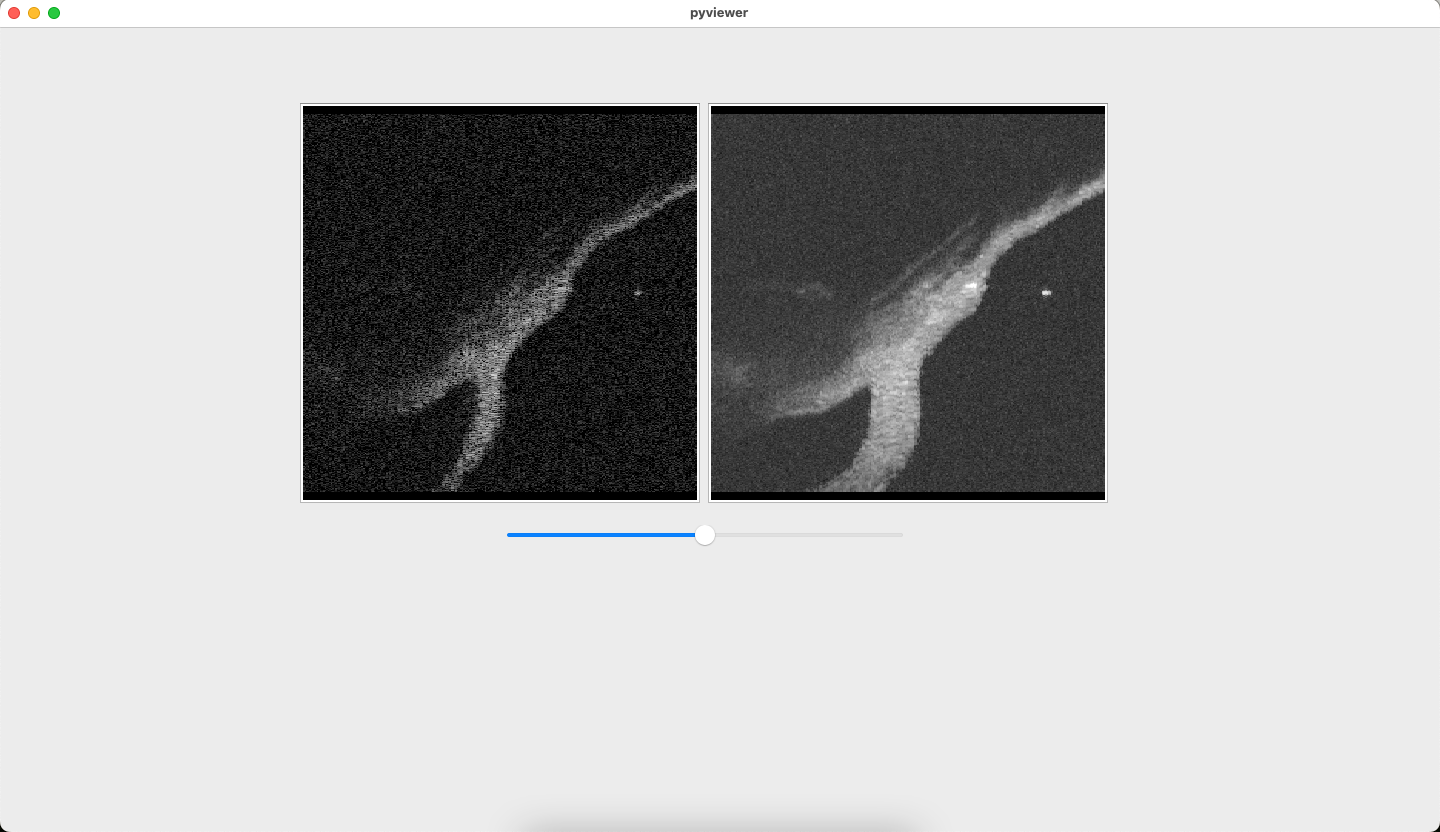
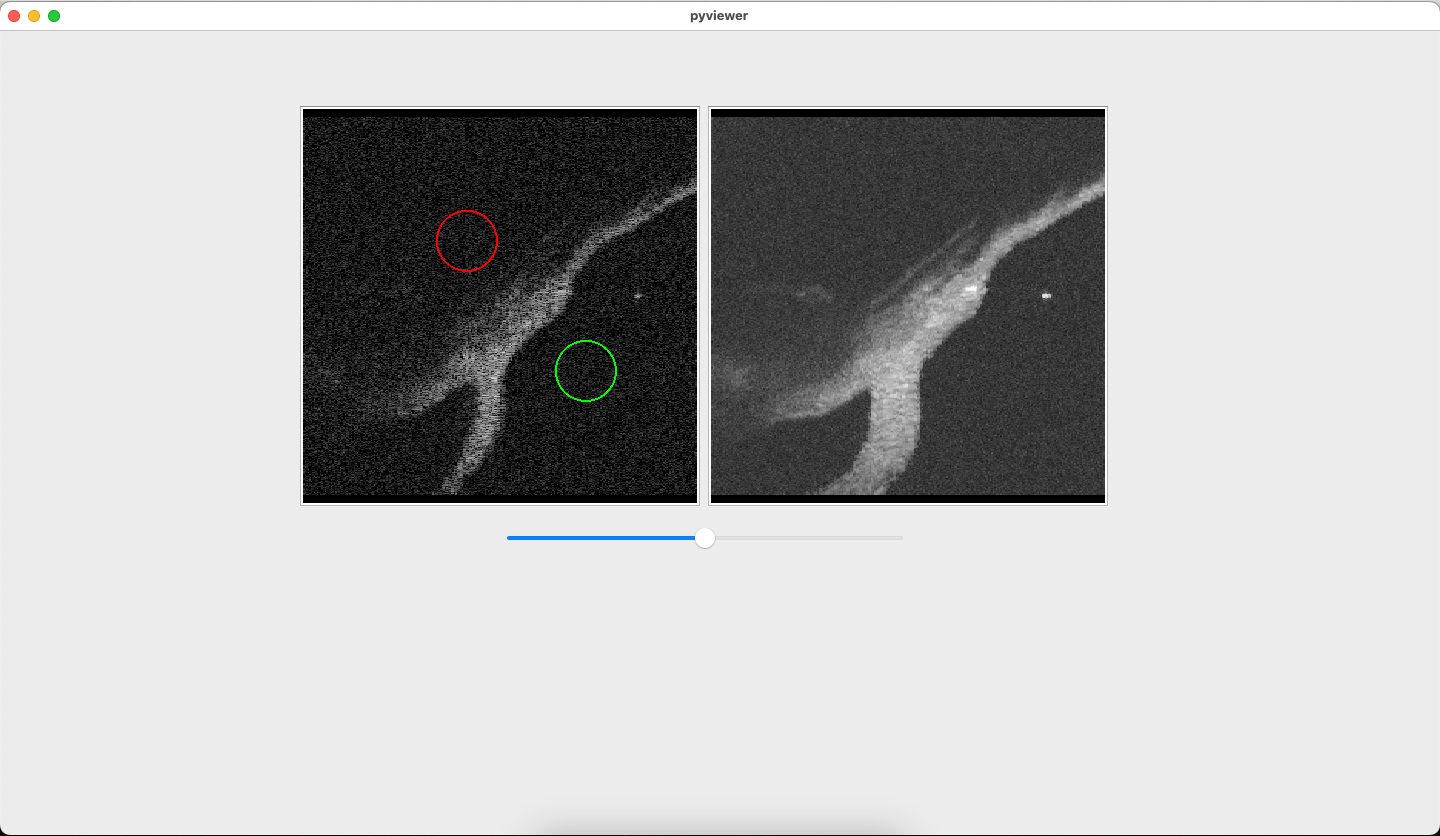
feat: Add draggable circles and improve state tracking
- Add DraggableCircle class with boundary constraints
- Replace hasattr checks with image_loaded flag
- Store circles in list for easier management

diff --git a/main.py b/main.py
@@ -1,11 +1,47 @@
+import logging
 import sys
 
 import numpy as np
-from PySide6.QtCore import Qt
-from PySide6.QtGui import QImage, QPixmap
-from PySide6.QtWidgets import QApplication, QFileDialog, QGraphicsScene, QMainWindow
+from PySide6.QtCore import QPointF, Qt
+from PySide6.QtGui import QBrush, QColor, QImage, QPen, QPixmap
+from PySide6.QtWidgets import (
+    QApplication,
+    QFileDialog,
+    QGraphicsEllipseItem,
+    QGraphicsItem,
+    QGraphicsScene,
+    QMainWindow,
+)
 
 from design_ui import Ui_MainWindow
+
+logging.basicConfig(level=logging.INFO)
+logger = logging.getLogger(__name__)
+
+
+class DraggableCircle(QGraphicsEllipseItem):
+    def __init__(self, x, y, radius=30, color=QColor.red):
+        super().__init__(-radius, -radius, radius * 2, radius * 2)
+        self.setPos(x, y)
+        self.setBrush(QBrush(Qt.BrushStyle.NoBrush))
+        self.setPen(QPen(color, 2))
+        self.setFlag(QGraphicsItem.GraphicsItemFlag.ItemIsMovable)
+        self.setFlag(QGraphicsItem.GraphicsItemFlag.ItemSendsGeometryChanges)
+        self.setFlag(QGraphicsItem.GraphicsItemFlag.ItemIgnoresTransformations)
+        self.radius = radius
+        self.on_position_changed = lambda: None
+
+    def itemChange(self, change, value):
+        if change == QGraphicsItem.GraphicsItemChange.ItemPositionChange:
+            scene_rect = self.scene().sceneRect()
+            bounded_x = max(self.radius, min(scene_rect.width() - self.radius, value.x()))
+            bounded_y = max(self.radius, min(scene_rect.height() - self.radius, value.y()))
+
+            self.on_position_changed()
+
+            if value.x() != bounded_x or value.y() != bounded_y:
+                return QPointF(bounded_x, bounded_y)
+        return super().itemChange(change, value)
 
 
 class Viewer(QMainWindow, Ui_MainWindow):
@@ -14,7 +50,12 @@ class Viewer(QMainWindow, Ui_MainWindow):
         self.setupUi(self)
 
         self.scene = QGraphicsScene(self)
+        view_size = self.graphicsView.size()
+        self.scene.setSceneRect(0, 0, view_size.width(), view_size.height())
         self.graphicsView.setScene(self.scene)
+        self.graphicsView.setHorizontalScrollBarPolicy(Qt.ScrollBarPolicy.ScrollBarAlwaysOff)
+        self.graphicsView.setVerticalScrollBarPolicy(Qt.ScrollBarPolicy.ScrollBarAlwaysOff)
+
         self.scene_MIP = QGraphicsScene(self)
         self.graphicsView_MIP.setScene(self.scene_MIP)
 
@@ -23,7 +64,15 @@ class Viewer(QMainWindow, Ui_MainWindow):
 
         # Cache and flags
         self._pixmap_cache = {}
-        self._view_initialized = False
+        self.image_loaded = False
+
+        # Circles
+        self.circles = []
+        for i, color in enumerate([QColor(255, 0, 0), QColor(0, 255, 0)]):
+            circle = DraggableCircle(100 + i * 100, 100, color=color)
+            circle.on_position_changed = self.update_histograms
+            self.circles.append(circle)
+            self.scene.addItem(circle)
 
     def array_to_qimage(self, arr: np.ndarray) -> QImage:
         """Convert numpy array to QImage safely"""
@@ -35,7 +84,7 @@ class Viewer(QMainWindow, Ui_MainWindow):
         )
 
     def update_views(self, y):
-        if not hasattr(self, 'image'):
+        if not self.image_loaded:
             return
 
         # Preparing data
@@ -47,24 +96,31 @@ class Viewer(QMainWindow, Ui_MainWindow):
         if y not in self._pixmap_cache:
             self._pixmap_cache[y] = QPixmap.fromImage(self.array_to_qimage(slice_y))
 
+        for circle in self.circles:
+            self.scene.removeItem(circle)
+
         # Rendering
         self.scene.clear()
         self.scene.addPixmap(self._pixmap_cache[y])
 
+        # Re-adding circles
+        for circle in self.circles:
+            self.scene.addItem(circle)
+
+        self.scene.setSceneRect(0, 0, 512, 512)
+
+        # MIP
         self.scene_MIP.clear()
         self.scene_MIP.addPixmap(QPixmap.fromImage(self.array_to_qimage(mip_y)))
 
-        # First view configuration
-        if not self._view_initialized:
-            self.graphicsView.fitInView(self.scene.sceneRect(), Qt.AspectRatioMode.KeepAspectRatio)
-            self.graphicsView_MIP.fitInView(
-                self.scene_MIP.sceneRect(), Qt.AspectRatioMode.KeepAspectRatio
-            )
-            self._view_initialized = True
+        # FitInView
+        self.graphicsView.fitInView(0, 0, 512, 512, Qt.AspectRatioMode.KeepAspectRatio)
+        self.graphicsView_MIP.fitInView(
+            self.scene_MIP.sceneRect(), Qt.AspectRatioMode.KeepAspectRatio
+        )
 
     def resizeEvent(self, event):
-        """Update on resize event"""
-        if hasattr(self, 'scene'):
+        if self.image_loaded:  # only if file loaded
             self.graphicsView.fitInView(self.scene.sceneRect(), Qt.AspectRatioMode.KeepAspectRatio)
             self.graphicsView_MIP.fitInView(
                 self.scene_MIP.sceneRect(), Qt.AspectRatioMode.KeepAspectRatio
@@ -81,10 +137,14 @@ class Viewer(QMainWindow, Ui_MainWindow):
             self.horizontalSliderY.setRange(0, 511)
             self.horizontalSliderY.setValue(256)
             self._pixmap_cache.clear()  # Cache reset
-            self._view_initialized = False
+            self.image_loaded = True
             self.update_views(256)
         except Exception as e:
-            print(f'Loading error: {e}')
+            logger.error(f'Failed to load file: {e}')
+
+    def update_histograms(self):
+        """Update histograms when circles are moving"""
+        # print(f'Circle1: {self.circle1.pos()}, Circle2: {self.circle2.pos()}')
 
 
 if __name__ == '__main__':
